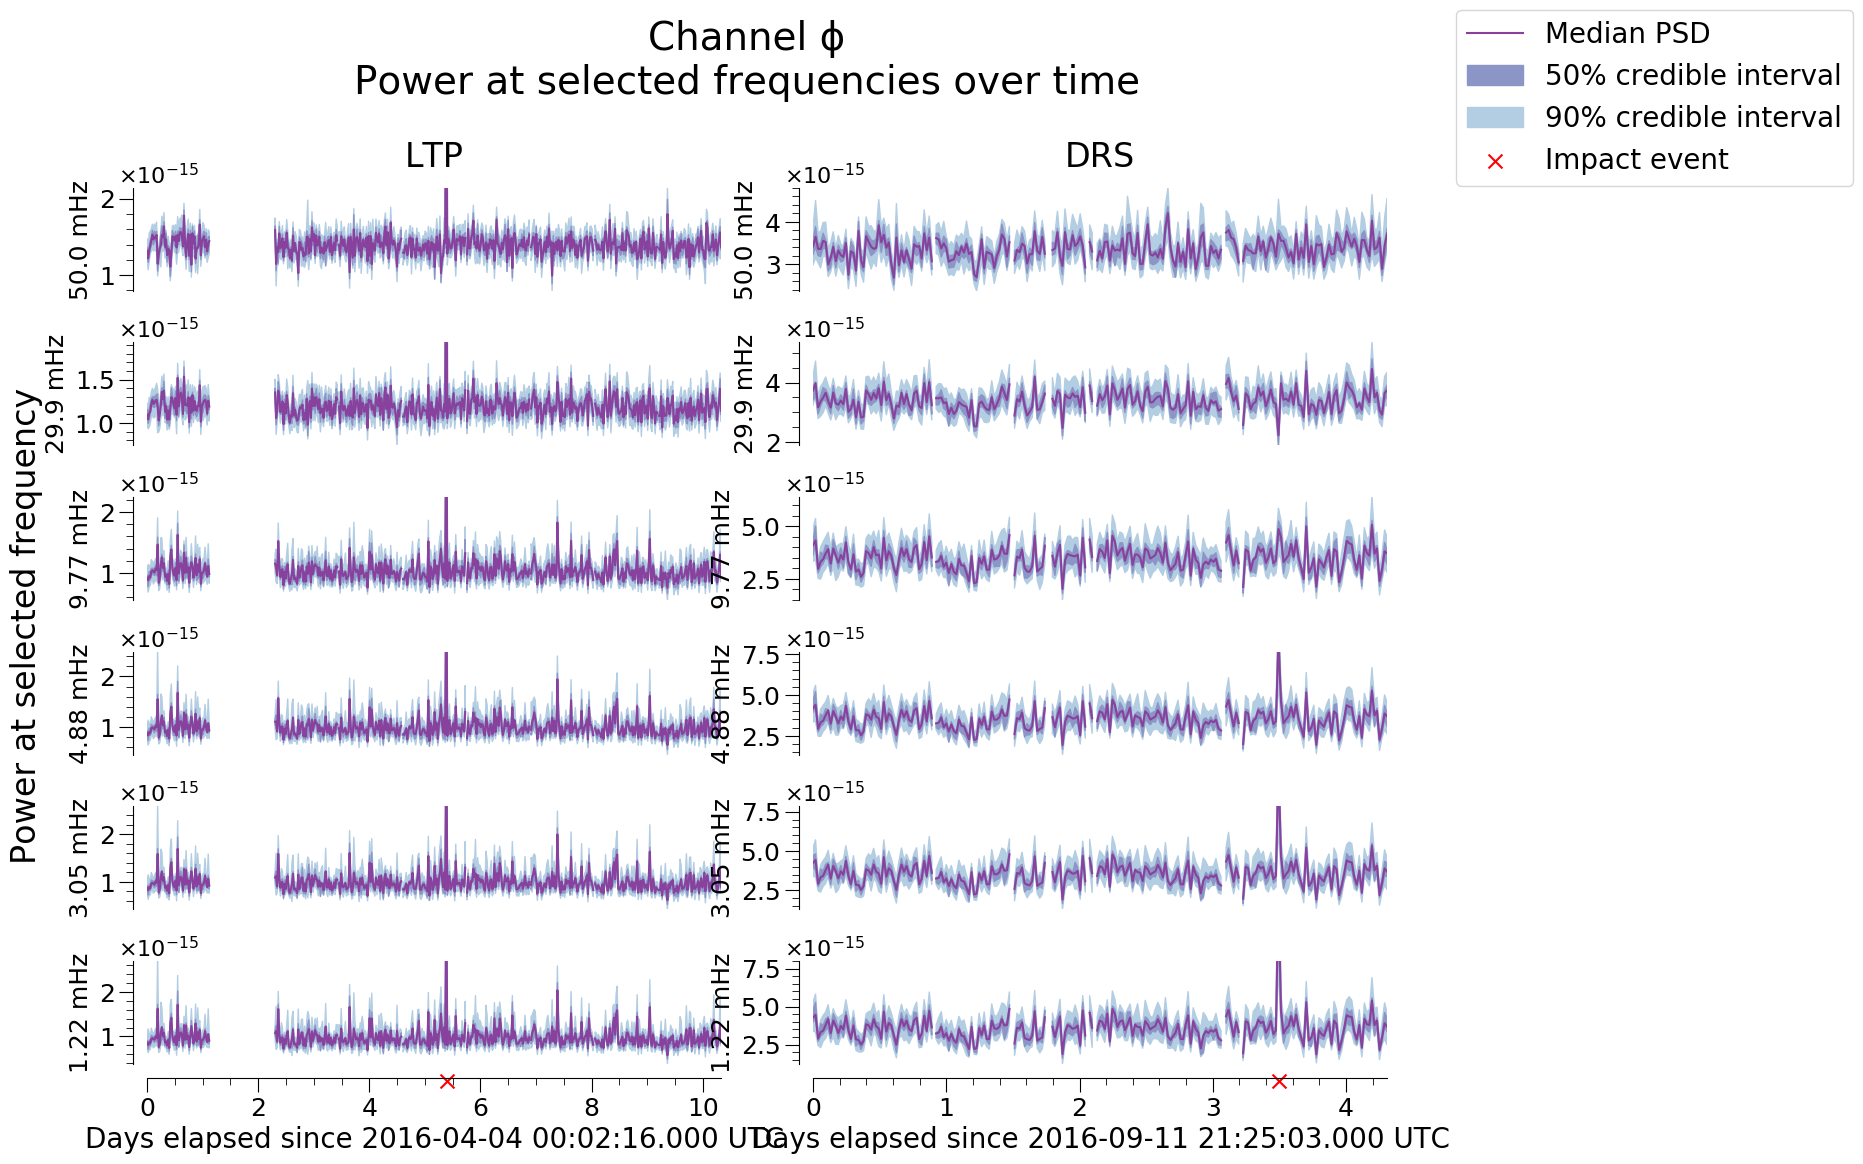
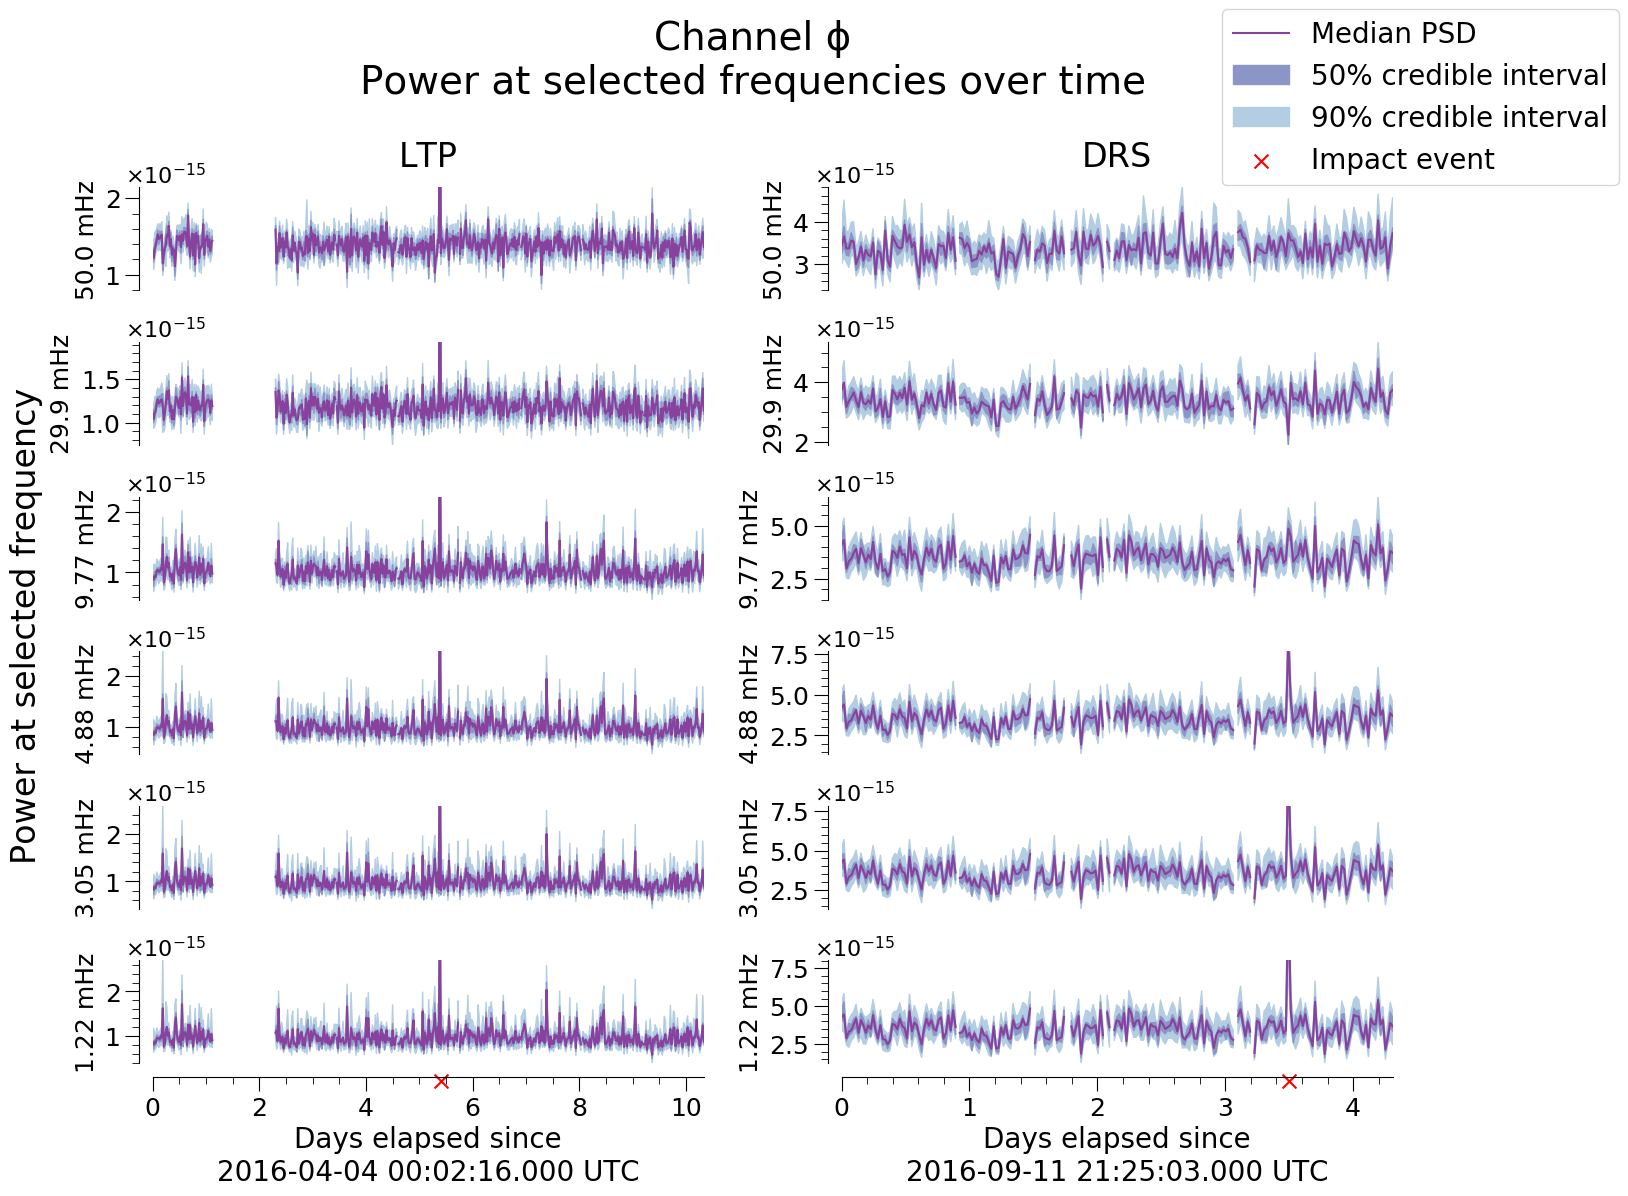
fixed fslice comparison

diff --git a/src/plot.py b/src/plot.py
@@ -279,11 +279,11 @@ def save_freq_slices(runs, channel, frequencies, impacts=[],
     figsize = (8 + len(runs) * 4, 12) # Relative figure size
     plot_height = 2 # Relative height of each subplot
     hspace = 2 # Relative vertical spaceing between subplots
-    wspace = 0.16
+    wspace = 0.25
     impactplot_height = 1 # Relative height of the impacts subplot
     spine_pad = 10 # Spine offset from subplots
     scaled_offset = 0.0025 * spine_pad # Scaled spine_pad
-    axlabelpad = 8 + ax_label_size # Padding between axis label and spine
+    axlabelpad = 10 + ax_label_size # Padding between axis label and spine
     # Labels and titles
     plot_title = f'Channel {channel}\nPower at selected frequencies over time' 
     ylabel = 'Power at selected frequency'
@@ -377,7 +377,7 @@ def save_freq_slices(runs, channel, frequencies, impacts=[],
                 ax.xaxis.set_minor_locator(tkr.NullLocator())
             else:
                 # Horizontal axis for bottom plot
-                ax.set_xlabel(f'Days elapsed since {run.start_date} UTC', 
+                ax.set_xlabel(f'Days elapsed since\n{run.start_date} UTC', 
                         fontsize=ax_label_size)
                 ax.spines['bottom'].set_visible(True)
                 ax.spines['bottom'].set_position(('outward', spine_pad))
@@ -420,7 +420,7 @@ def save_freq_slices(runs, channel, frequencies, impacts=[],
     handles += [impact_plt]
     order = [0, 2, 1, 3] # Reorder legend
     fig.legend(handles=[handles[i] for i in order], fontsize=legend_label_size, 
-            loc='upper right', bbox_to_anchor=(1.2, 1), 
+            loc='upper right', bbox_to_anchor=(1.05, 1), 
             bbox_transform=plt.gcf().transFigure)
     plt.subplots_adjust(top=1 - (4 * 0.0020 * legend_label_size))
     
